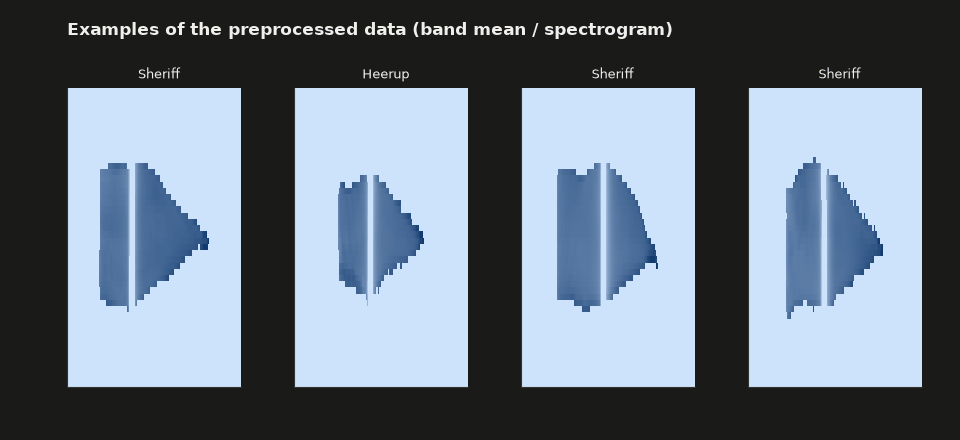
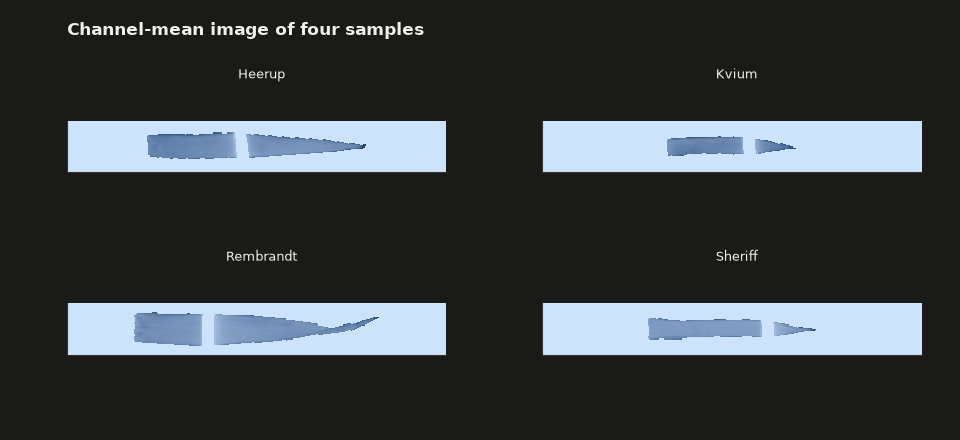
docs: regenerate HyperLeaf, Pol-InSAR-Island and MSTAR figures on the merged code
- raw_samples of HyperLeaf (mode="image", all bands) and Pol-InSAR-Island
  (raw_layout="grid") show the channel-mean image, now that raw is the set
  of pixels: new make_figures_raw.py --extra image_mean.
- MSTAR has no groups: its split schema says so.
- Static figures keep square pixels when the axes are anchored (images, maps).
- Pol-InSAR-Island preview drawn from the grid layout.
- Gallery pages no longer show an "Edit on GitHub" link (generated files).

diff --git a/doc/_templates/edit-this-page.html b/doc/_templates/edit-this-page.html
@@ -1,0 +1,5 @@
+{#- The gallery pages (auto_examples/) are generated by sphinx-gallery: they have no
+    source file on GitHub, so they get no "Edit on GitHub" link. -#}
+{% if not pagename.startswith("auto_examples/") %}
+  {% include "components/edit-this-page.html" %}
+{% endif %}

diff --git a/doc/tools/make_figures_raw.py b/doc/tools/make_figures_raw.py
@@ -30,7 +30,9 @@ Extras (``--extra``) read loader caches or metadata for one page:
 - ``parcel_pixels``: ``raw_samples`` for datasets whose raw output is an
   irregular set of pixels ``(n, p)`` (overwrites the one of ``make_figures.py``,
   which draws every pixel);
-- ``cpazmal_dates``: the HH / HV acquisition dates retained for each orbit.
+- ``cpazmal_dates``: the HH / HV acquisition dates retained for each orbit;
+- ``image_mean``: ``raw_samples`` as the channel-mean image, for loaders whose
+  raw output is a set of pixels (``--kwargs`` selects the image layout).
 """
 
 import argparse
@@ -339,6 +341,41 @@ def parcel_pixels(name, kwargs, page, max_pixels=300, seed=0):
     return {"n_pixels": n_px}
 
 
+def image_mean(name, kwargs, page, channel_axis=-1, seed=0):
+    """``raw_samples`` as the channel-mean image of four samples of distinct classes.
+
+    For loaders whose default raw output is a set of pixels: pass the
+    constructor arguments that give the image (HyperLeaf ``mode="image"`` with
+    every band, Pol-InSAR-Island ``raw_layout="grid"``).
+    """
+    import plotly.graph_objects as go
+    from plotly.subplots import make_subplots
+
+    from spdnet_datasets import DatasetManager
+
+    ds = DatasetManager.DATASETS[name](**kwargs)
+    y = _labels(ds)
+    rng = np.random.default_rng(seed)
+    shown = [int(rng.choice(np.flatnonzero(y == c))) for c in np.unique(y)[:4]]
+    imgs = []
+    for i in shown:
+        x, _ = ds[i]
+        img = np.asarray(x[-1] if isinstance(x, tuple) else x, dtype=np.float32)
+        imgs.append(np.round(img.mean(axis=channel_axis), 3))
+    wide = imgs[0].shape[1] > 3 * imgs[0].shape[0]  # elongated images (leaves): 2 x 2 grid
+    rows, cols = (2, 2) if wide else (1, len(imgs))
+    fig = make_subplots(rows=rows, cols=cols, subplot_titles=[ds.classes[y[i]] for i in shown],
+                        vertical_spacing=0.12)
+    for j, z in enumerate(imgs):
+        r, c = (j // 2 + 1, j % 2 + 1) if wide else (1, j + 1)
+        fig.add_trace(go.Heatmap(z=z, colorscale=SEQUENTIAL, showscale=False,
+                                 hovertemplate="value %{z:.3g}<extra></extra>"), r, c)
+        fig.update_yaxes(autorange="reversed", scaleanchor=f"x{j + 1 if j else ''}", row=r, col=c)
+    _layout(fig, "Channel-mean image of four samples")
+    _write(OUT / page, {"raw_samples": fig})
+    return {"shown": shown, "shape": list(img.shape)}
+
+
 def cpazmal_dates(page, kwargs):
     """The ``n_dates`` acquisition dates (HH and HV) retained for each orbit."""
     import pandas as pd
@@ -376,7 +413,9 @@ if __name__ == "__main__":
                     help="sample blocks of this many consecutive items (chunked stores)")
     ap.add_argument("--raw-scale", default="log10", choices=["log10", "linear"],
                     help="display of raw_samples (linear for already log-scaled raw outputs)")
-    ap.add_argument("--extra", choices=["pastis_dates", "split_map", "cpazmal_dates", "parcel_pixels"])
+    ap.add_argument("--extra", choices=["pastis_dates", "split_map", "cpazmal_dates", "parcel_pixels",
+                                        "image_mean"])
+    ap.add_argument("--channel-axis", type=int, default=-1, help="image_mean: channel axis")
     ap.add_argument("--xy", default="easting,northing", help="split_map: meta columns")
     ap.add_argument("--scale", type=float, default=1.0, help="split_map: coordinate factor")
     ap.add_argument("--unit", default="", help="split_map: axis unit")
@@ -392,6 +431,8 @@ if __name__ == "__main__":
         res = split_map(a.name, kw, a.split, page, a.xy.split(","), a.scale, a.unit)
     elif a.extra == "parcel_pixels":
         res = parcel_pixels(a.name, kw, page)
+    elif a.extra == "image_mean":
+        res = image_mean(a.name, kw, page, a.channel_axis)
     elif a.extra == "cpazmal_dates":
         res = cpazmal_dates(page or "cpazmal", kw)
     else:

diff --git a/doc/tools/figures_io.py b/doc/tools/figures_io.py
@@ -185,6 +185,8 @@ def render_static(fig: dict, path: Path, theme: str, width=9.6, height=4.4, dpi=
             ax.set_ylabel(ya["title"]["text"])
         if ya.get("type") == "log":
             ax.set_yscale("log")
+        if ya.get("scaleanchor"):  # same scale on both axes (images, maps)
+            ax.set_aspect("equal", adjustable="box")
         if ya.get("tickvals") is not None and ya.get("ticktext") is not None:
             ax.set_yticks(decode(ya["tickvals"]), ya["ticktext"])
             ax.set_ylim(min(decode(ya["tickvals"])) - 0.6, max(decode(ya["tickvals"])) + 0.6)
@@ -207,11 +209,13 @@ def render_static(fig: dict, path: Path, theme: str, width=9.6, height=4.4, dpi=
         label = tr.get("name") if tr.get("showlegend", True) is not False else None
         if typ == "heatmap":
             z = np.asarray(decode(tr["z"]), dtype=float)
-            ax.imshow(z, aspect="auto", interpolation="nearest", origin="lower",
+            square = ax.get_aspect() == 1.0  # scaleanchor: keep the pixels square
+            ax.imshow(z, aspect="equal" if square else "auto",
+                      interpolation="nearest", origin="lower",
                       cmap=_cmap(tr.get("colorscale", [[0, "#cde2fb"], [1, "#0d366b"]]), theme),
                       vmin=tr.get("zmin"), vmax=tr.get("zmax"))
             ax.grid(False)
-            if z.shape[0] > 1 and z.shape[1] / z.shape[0] > 6:
+            if not square and z.shape[0] > 1 and z.shape[1] / z.shape[0] > 6:
                 ax.set_aspect("auto")
             ax.set_xticks([]), ax.set_yticks([])
         elif typ == "bar":
